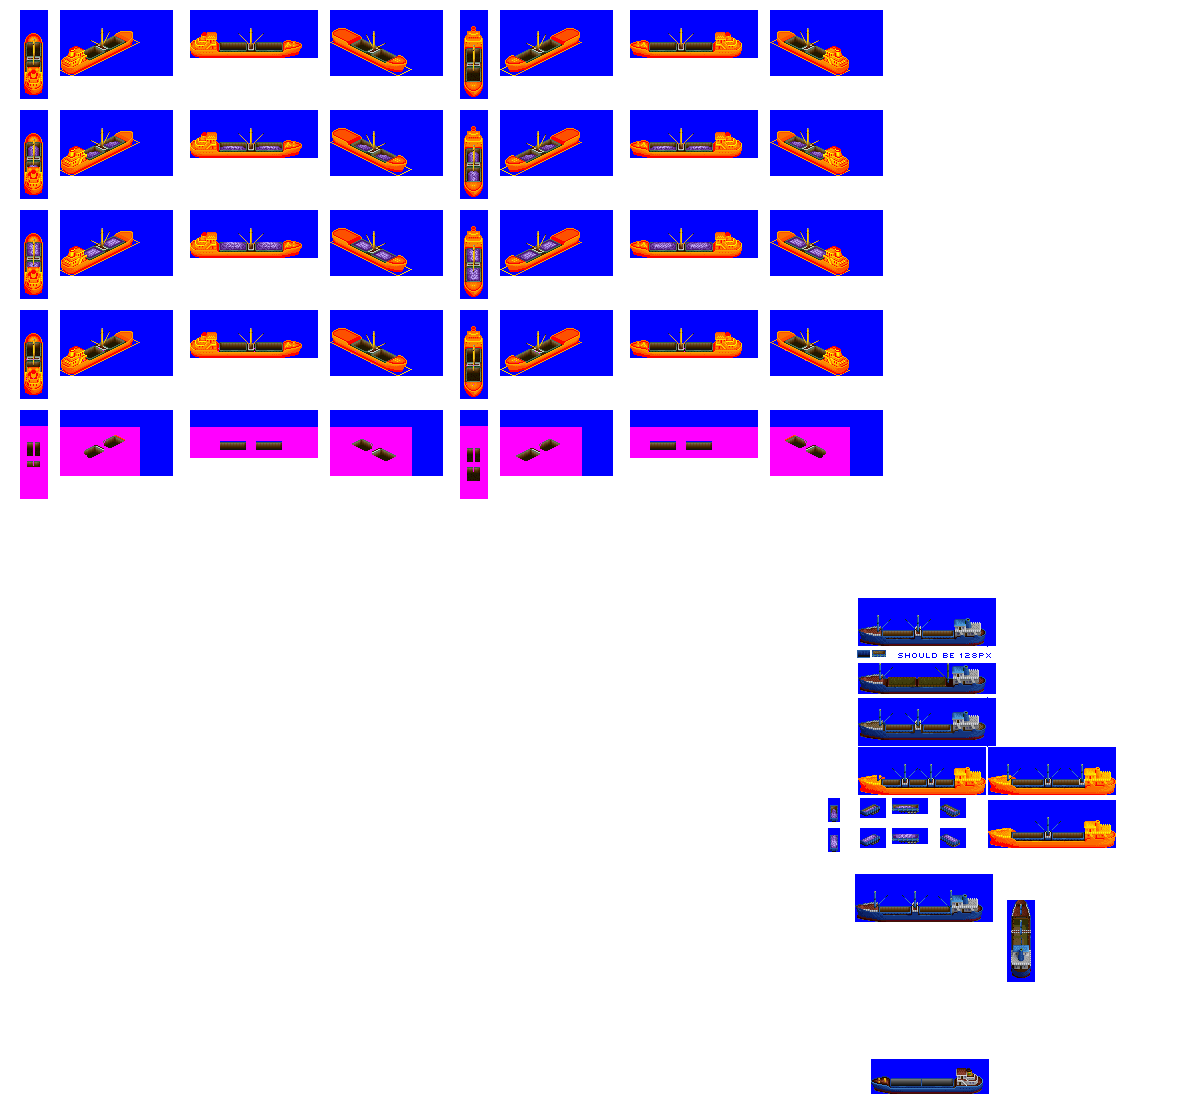
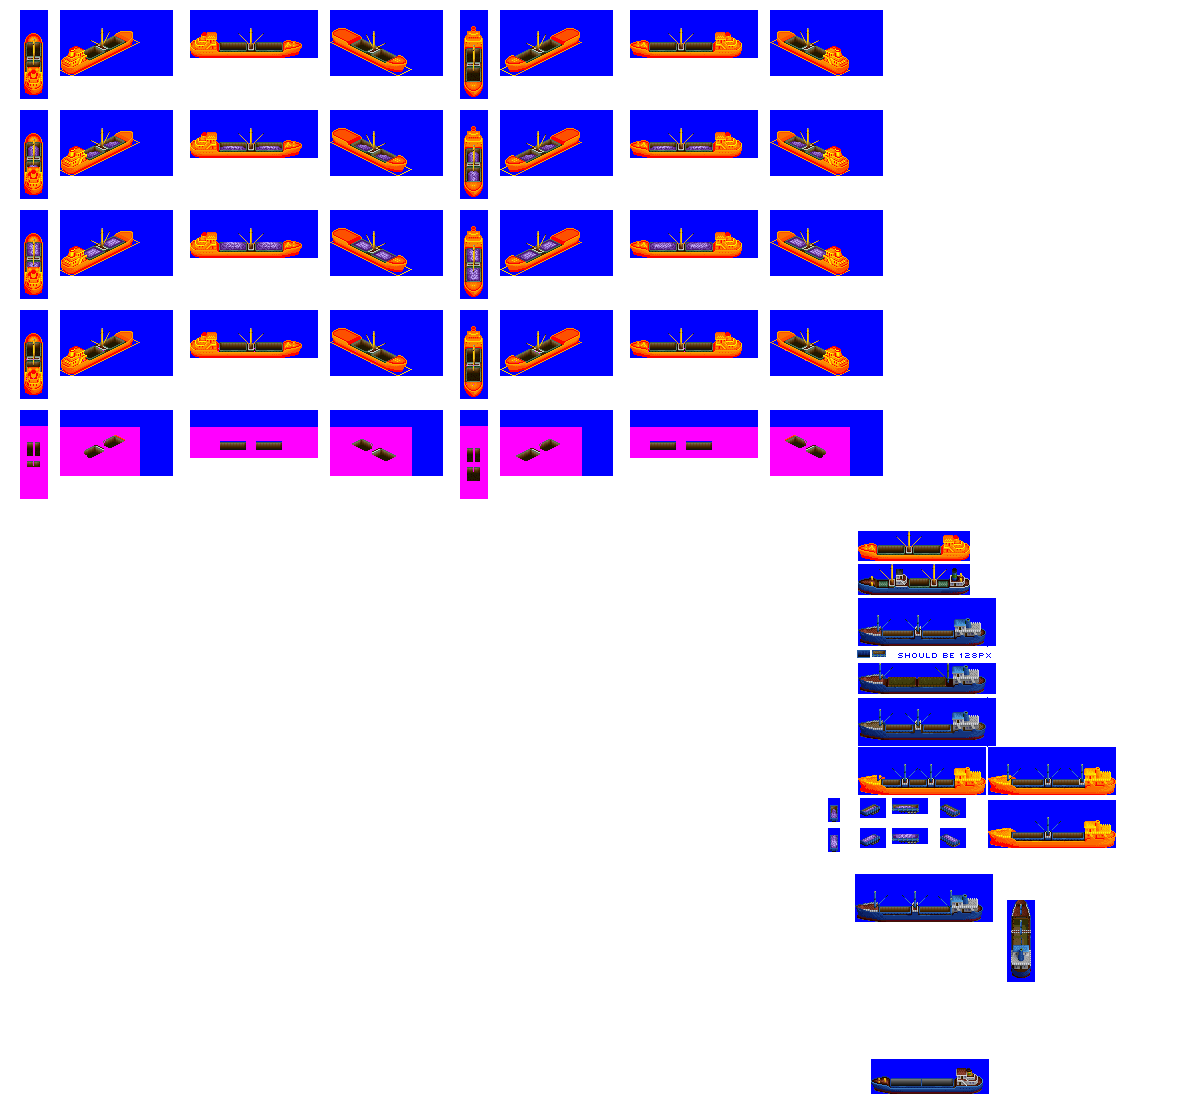
Change: stub in gen 2E Cargo Liner as a test

Changed region(s): [[0.7092, 0.4595, 0.8325, 0.5514]]

diff --git a/src/ship.py b/src/ship.py
@@ -589,7 +589,7 @@ class FreighterBarge(FreighterBase):
     """
 
     def __init__(self, **kwargs):
-        self.base_id = "universal_freighter_barge"
+        self.base_id = "freighter_barge"
         super().__init__(**kwargs)
 
 
@@ -599,7 +599,7 @@ class FreighterShip(FreighterBase):
     """
 
     def __init__(self, **kwargs):
-        self.base_id = "universal_freighter_ship"
+        self.base_id = "freighter_ship"
         super().__init__(**kwargs)
 
 

diff --git a/src/vehicles/cargo_liners.py b/src/vehicles/cargo_liners.py
@@ -3,6 +3,15 @@ from ship import CargoLiner
 
 def main():
     ship = CargoLiner(
+        numeric_id=9,
+        name="Amethyste",
+        gen=2,
+        subtype="E",
+        hull="TempHouseNone",
+        effect_type="EFFECT_SPRITE_STEAM",
+    )
+
+    ship = CargoLiner(
         numeric_id=7,
         name="Rampside",
         gen=3,
